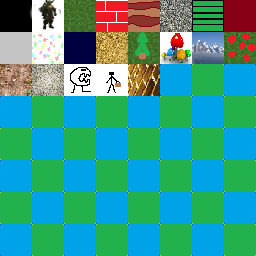
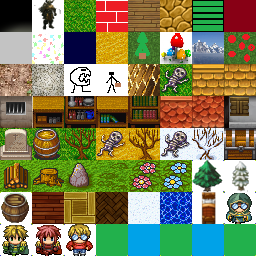
Dodanie 20 nowych tile , dodanie metod budujacych dom i meble

diff --git a/Kod/rogalik/GameBuilder.h b/Kod/rogalik/GameBuilder.h
@@ -8,5 +8,15 @@ private:
 public:
 	Game& getGame();
 	void generateNewGame();
+	/**
+	** Funkcja budujaca domek 
+	** @param map - mapa na ktorej rysujemy
+	** @param level - level na ktorym budujemy
+	** @param x - wspolrzedna x wejscia
+	** @param y - wspolrzedna y wejscia 
+	** @param bool - domek pierwszy (otwarty  TRUE) czy zamkniety
+	**/
+	void buildHouse(std::vector< std::vector< std::vector<Tile> > > &map,int level , int x , int y,bool var=true);
+	void buildFurniture(std::vector< std::vector< std::vector<Tile> > > &map,int level , int x , int y);
 };
 

diff --git a/Kod/rogalik/ImageRes.h b/Kod/rogalik/ImageRes.h
@@ -65,7 +65,18 @@ public:
 		STONE,
 		MONSTER,
 		DEALER,
-		GOLD
+		GOLD,
+		DEAD,
+		ROOF,
+		ROOFN,
+		WINDOW,
+		FURN1A,
+		FURN1B,
+		FURN2A,
+		FURN2B,
+		ROOF2,
+		ROOFN2,
+		WINDOW2,
 	};
 private:
 	ImageRes(void){}
